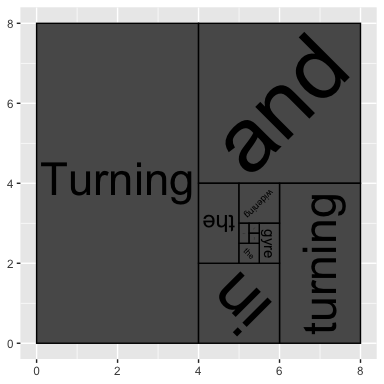
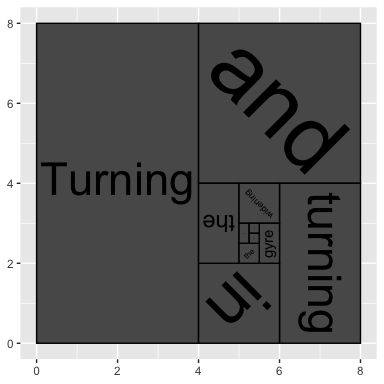
More accurate adjustment for descenders

diff --git a/NEWS.md b/NEWS.md
@@ -1,12 +1,10 @@
 # ggfittext 0.7.1
 
-## Major changes
-
-- Substantial speed improvement
-
 ## Minor changes
 
 - `padding.x` and `padding.y` now default to 1 mm
+- Speed improvements
+- More accurate adjustment for descenders
 
 ## Bug fixes
 
